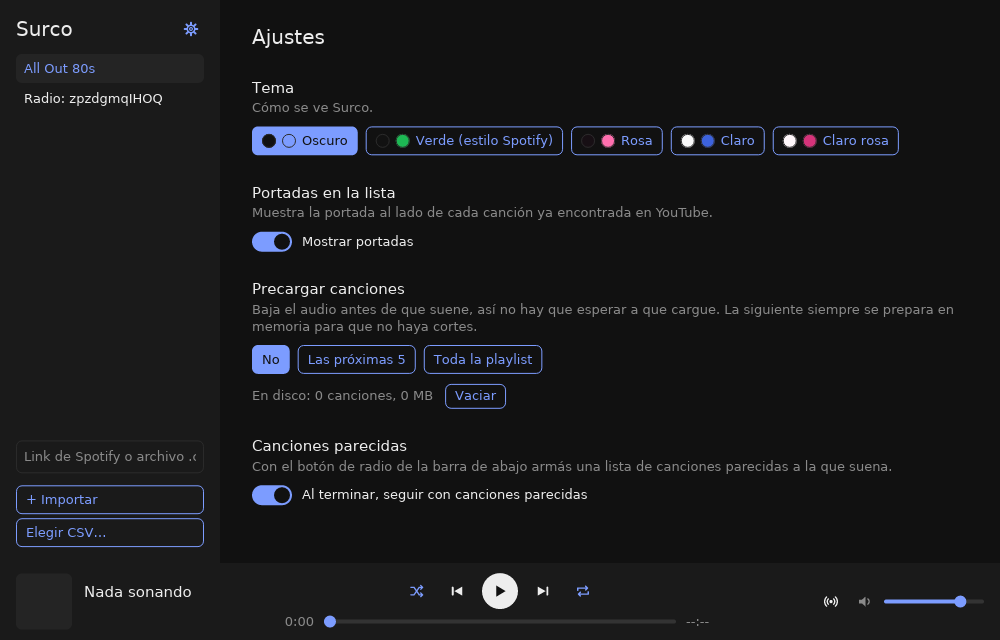
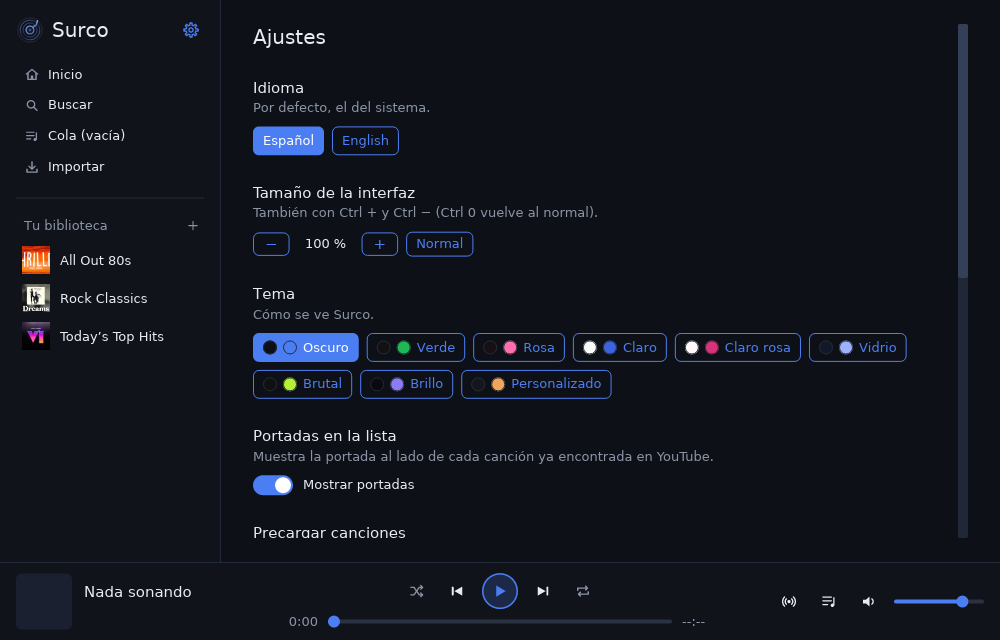
README: capturas nuevas para la 1.0
Inicio, playlist, buscador y ajustes con la interfaz actual, y dos nuevas:
el tema Vidrio y la pantalla de bienvenida. Sacadas sin la flechita de
descargas, que sale en la revisión legal.

diff --git a/README.md b/README.md
@@ -201,7 +201,11 @@ En Windows, la X esconde la ventana y Surco sigue sonando en la bandeja (la flec
 
 ![Ajustes](docs/ajustes.png)
 
+![El tema Vidrio](docs/vidrio.png)
+
 La primera vez que abrís Surco aparece una pantalla de bienvenida para elegir el tema, el idioma, el tamaño y la precarga. Tocá **Empezar** y listo; todo se puede cambiar después.
+
+![Pantalla de bienvenida](docs/bienvenida.png)
 
 El engranaje de arriba a la izquierda abre los ajustes:
 
